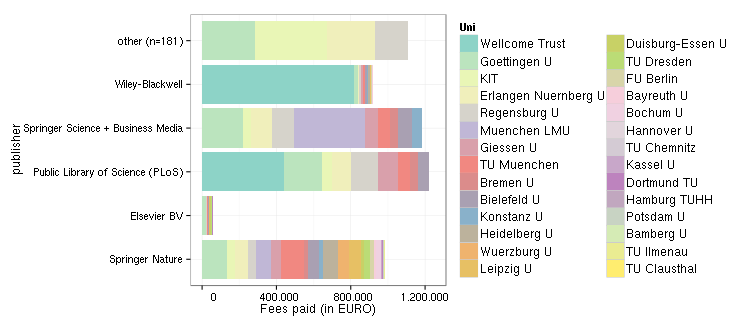
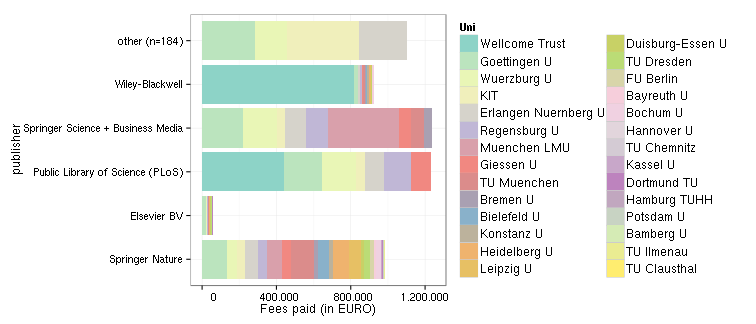
post: wuerzburg u data 2011-2013

diff --git a/_posts/2016-07-26-wuerzburg.md b/_posts/2016-07-26-wuerzburg.md
@@ -1,0 +1,108 @@
+---
+layout:     post
+author:     Christoph Broschinski
+title:      University of Würzburg provides 3 new APC datasets
+date:       2016-07-26 12:00:00
+summary:    
+categories: [general, openAPC]
+comments: true
+---
+
+
+
+
+[University of Würzburg](https://www.uni-wuerzburg.de) has updated its APC expenditures. The latest contribution provides data for the 2011, 2012 and 2013 periods.
+
+[Würzburg University Library](http://www.bibliothek.uni-wuerzburg.de) is in charge of the [University's Open Access Publishing Fund](http://www.bibliothek.uni-wuerzburg.de/en/service0/electronic_publishing/open_access/open_access_journals/), which is supported by the DFG under its [Open-Access Publishing Programme](http://www.dfg.de/en/research_funding/programmes/infrastructure/lis/funding_opportunities/open_access_publishing/index.html).
+
+Contact person is [Kristina Hanig](<mailto:openaccess@bibliothek.uni-wuerzburg.de>).
+
+## Cost Data
+
+
+
+The first new dataset covers publication fees for 76 articles from the 2011 period. Total expenditure amounts to 81 955€ and the average fee is 1 078€.
+
+The following table shows the payments [Würzburg University Library](http://www.bibliothek.uni-wuerzburg.de) has made to publishers in 2011.
+
+
+|                                                    | Articles| Fees paid in EURO| Mean Fee paid|
+|:---------------------------------------------------|--------:|-----------------:|-------------:|
+|Canadian Academy of Oriental and Occidental Culture |        1|               166|           166|
+|Canadian Center of Science and Education            |        1|               176|           176|
+|Copernicus GmbH                                     |        1|               975|           975|
+|Elsevier BV                                         |        1|               860|           860|
+|Frontiers Media SA                                  |        1|               583|           583|
+|Hindawi Publishing Corporation                      |        4|              3509|           877|
+|Informa UK Limited                                  |        1|               427|           427|
+|International Scientific Literature                 |        1|               793|           793|
+|MDPI AG                                             |        2|               272|           136|
+|Optical Society of America (OSA)                    |        1|              1489|          1489|
+|Oxford University Press (OUP)                       |        2|              2713|          1357|
+|Public Library of Science (PLoS)                    |       28|             32831|          1173|
+|SAGE Publications                                   |        1|              1433|          1433|
+|Science and Engineering Publ. Co.                   |        1|               188|           188|
+|Scientific Research Publishing, Inc,                |        1|               264|           264|
+|Springer Science + Business Media                   |       29|             35276|          1216|
+
+The second new dataset covers publication fees for 84 articles from the 2012 period. Total expenditure amounts to 102 652€ and the average fee is 1 222€.
+
+The following table shows the payments [Würzburg University Library](http://www.bibliothek.uni-wuerzburg.de) has made to publishers in 2012.
+
+
+|                                              | Articles| Fees paid in EURO| Mean Fee paid|
+|:---------------------------------------------|--------:|-----------------:|-------------:|
+|Bentham Science Publishers Ltd.               |        1|               730|           730|
+|Dove Medical Press Ltd.                       |        2|              3265|          1633|
+|Frontiers Media SA                            |       11|             15363|          1397|
+|Hindawi Publishing Corporation                |        2|              1022|           511|
+|International Union of Crystallography (IUCr) |        2|               273|           136|
+|MDPI AG                                       |        3|              3638|          1213|
+|Optical Society of America (OSA)              |        2|              3708|          1854|
+|Oxford University Press (OUP)                 |        1|              1267|          1267|
+|Public Library of Science (PLoS)              |       24|             27796|          1158|
+|Springer Science + Business Media             |       34|             42392|          1247|
+|The Company of Biologists                     |        1|              1866|          1866|
+|Wiley-Blackwell                               |        1|              1333|          1333|
+
+The last new dataset covers publication fees for 102 articles from the 2013 period. Total expenditure amounts to 123 968€ and the average fee is 1 215€.
+
+The following table shows the payments [Würzburg University Library](http://www.bibliothek.uni-wuerzburg.de) has made to publishers in 2013.
+
+
+|                                                           | Articles| Fees paid in EURO| Mean Fee paid|
+|:----------------------------------------------------------|--------:|-----------------:|-------------:|
+|Academy and Industry Research Collaboration Center (AIRCC) |        1|               111|           111|
+|Baishideng Publishing Group Inc.                           |        1|               574|           574|
+|Bentham Science Publishers Ltd.                            |        1|               715|           715|
+|Dove Medical Press Ltd.                                    |        1|              1633|          1633|
+|Frontiers Media SA                                         |        9|             12870|          1430|
+|Hindawi Publishing Corporation                             |        4|              2552|           638|
+|IOP Publishing                                             |        2|              1636|           818|
+|MDPI AG                                                    |        4|              4916|          1229|
+|Nature Publishing Group                                    |        1|              1245|          1245|
+|OMICS Publishing Group                                     |        1|               836|           836|
+|Oxford University Press (OUP)                              |        1|              1428|          1428|
+|Portland Press Ltd.                                        |        1|               922|           922|
+|Public Library of Science (PLoS)                           |       30|             36549|          1218|
+|S. Karger AG                                               |        1|              1785|          1785|
+|SAGE Publications                                          |        1|              1035|          1035|
+|Springer Science + Business Media                          |       40|             52709|          1318|
+|Wiley-Blackwell                                            |        1|              1618|          1618|
+|Würzburg University Press                                  |        2|               833|           416|
+
+## Overview
+
+With the recent contributions included, the overall APC data for University of Würzburg now looks as follows: 
+
+### Fees paid per publisher (in EURO)
+
+![plot of chunk tree_wuerzburg_2016-07-26](/figure/tree_wuerzburg_2016-07-26-1.png) 
+
+###  Average costs per year (in EURO)
+
+![plot of chunk box_wuerzburg_year_2016-07-26](/figure/box_wuerzburg_year_2016-07-26-1.png) 
+
+###  Average costs per publisher (in EURO)
+
+![plot of chunk box_wuerzburg_publisher_2016-07-26](/figure/box_wuerzburg_publisher_2016-07-26-1.png) 

diff --git a/about.md b/about.md
@@ -72,13 +72,13 @@ The data content covers APCs as paid for by our central budget for the Max Planc
 
 Information on both open access journal articles and open access publication of articles in toll-access journals ("hybrid") are provided.
 
-In total,  25 268 345 € for  14 422 articles were paid by the participating unviversities. Average  fee is 1 752.1 € and the median 1 507 €.
+In total,  25 576 921 € for  14 684 articles were paid by the participating unviversities. Average  fee is 1 741.8 € and the median 1 499 €.
 
 ### Open Access Journals
 
 
 
-At the moment, the dataset releases information on 9 719 articles in open access journals which charge publication fees. Total expenditure amounts to  13 140 259 €. Average  fee is 1 352 € and the median 1 266 €.
+At the moment, the dataset releases information on 9 981 articles in open access journals which charge publication fees. Total expenditure amounts to  13 448 834 €. Average  fee is 1 347.4 € and the median 1 260 €.
 
 View dataset on [GitHub](https://github.com/OpenAPC/openapc-de/blob/master/data/apc_de.csv).
 
@@ -119,7 +119,7 @@ View dataset on [GitHub](https://github.com/OpenAPC/openapc-de/blob/master/data/
 |TU Ilmenau                                  |       13|             13053|          1004|    986|
 |TU Muenchen                                 |      308|            390086|          1267|   1386|
 |Wellcome Trust                              |      772|           1457126|          1887|   1823|
-|Wuerzburg U                                 |      207|            286543|          1384|   1447|
+|Wuerzburg U                                 |      469|            595119|          1269|   1266|
 
 ### Hybrid articles
 
